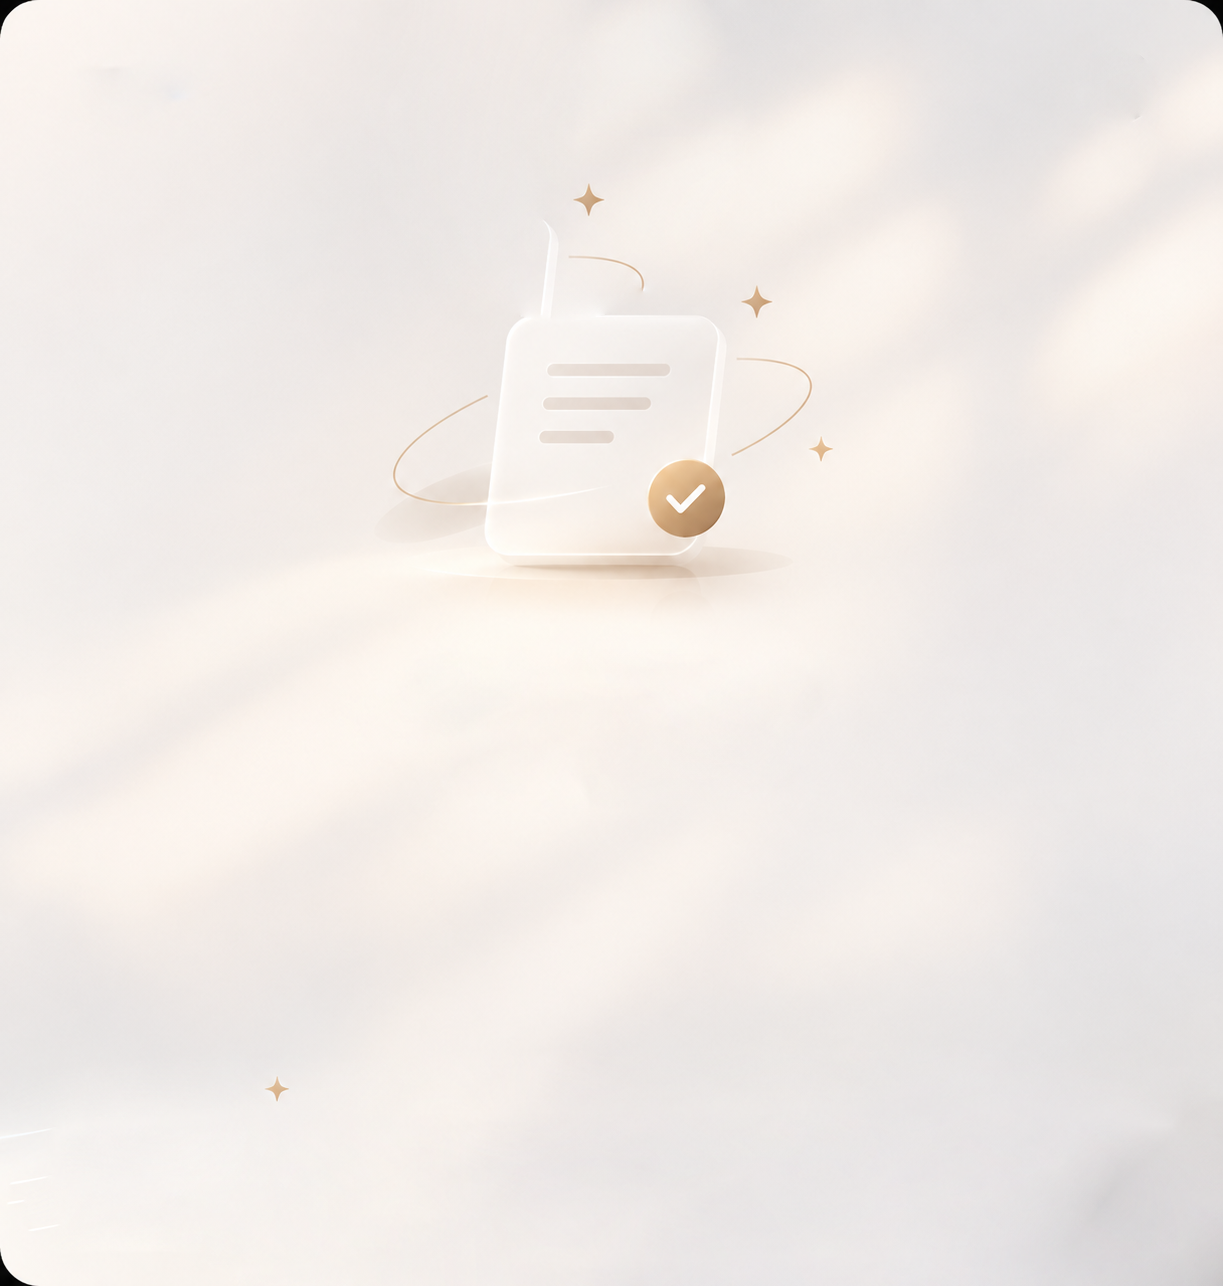
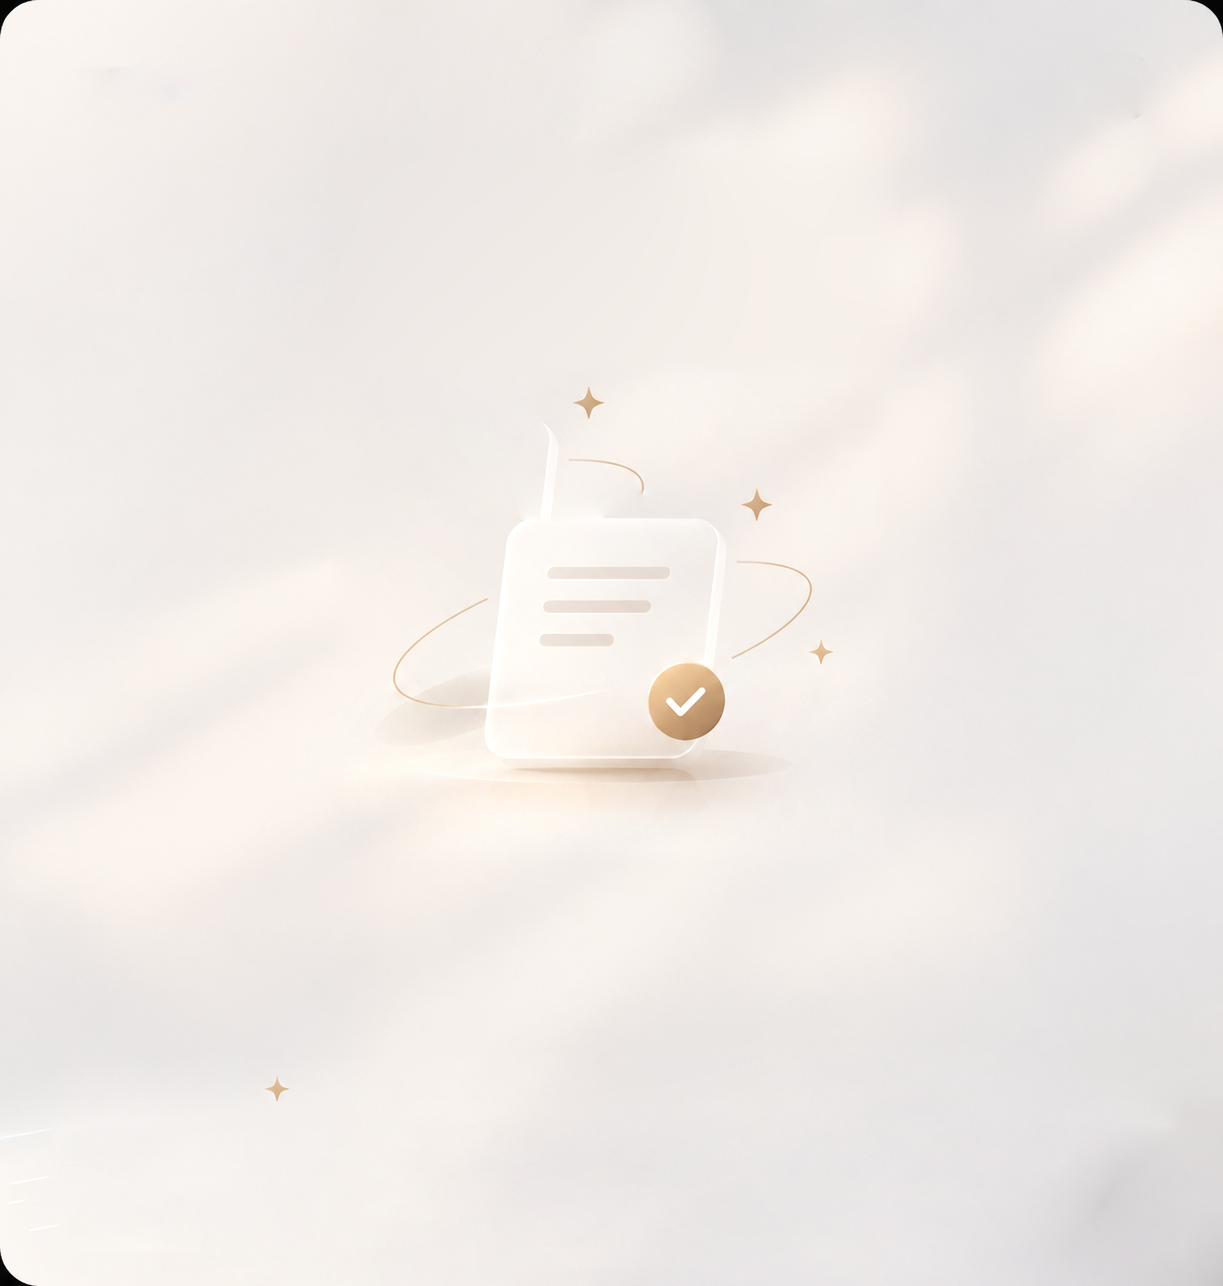
fix: 修正背景图标垂直居中
图标烘焙在 bg.png 里且位置偏上，改成把图标下移到图片高度 50% 处，
配合背景的 cover + center，让不同窗口尺寸下都保持垂直居中。
空状态文字改为排到图标下方，避免与图标重叠。

diff --git a/src/components/EmptyState.vue b/src/components/EmptyState.vue
@@ -18,7 +18,9 @@
   display: flex;
   flex-direction: column;
   align-items: center;
-  justify-content: center;
+  /* 图标已在背景图垂直居中，文字排到图标下方 */
+  justify-content: flex-end;
+  padding-bottom: clamp(8px, 3vh, 24px);
   text-align: center;
 }
 
@@ -28,7 +30,7 @@
 }
 
 .title {
-  margin: 62px 0 0;
+  margin: 0;
   font-size: clamp(19px, 3.2vw, 26px);
   font-weight: 500;
   color: var(--ink-2);
